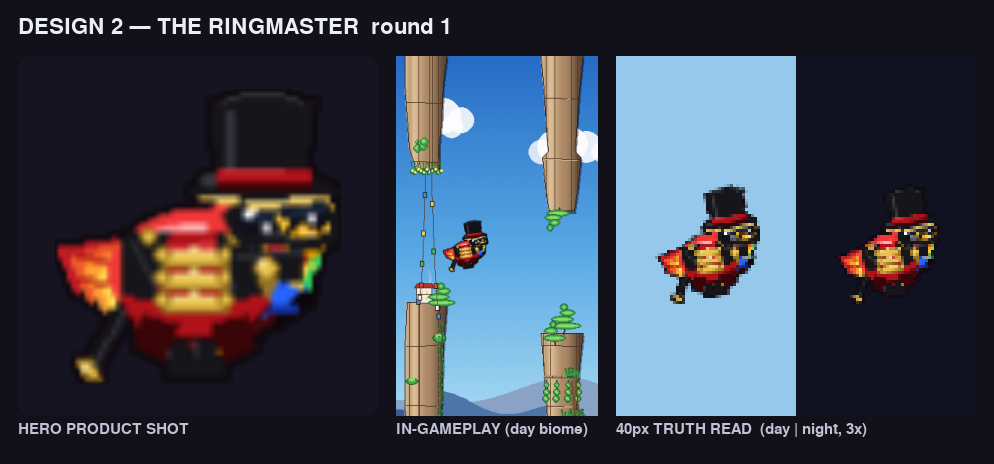
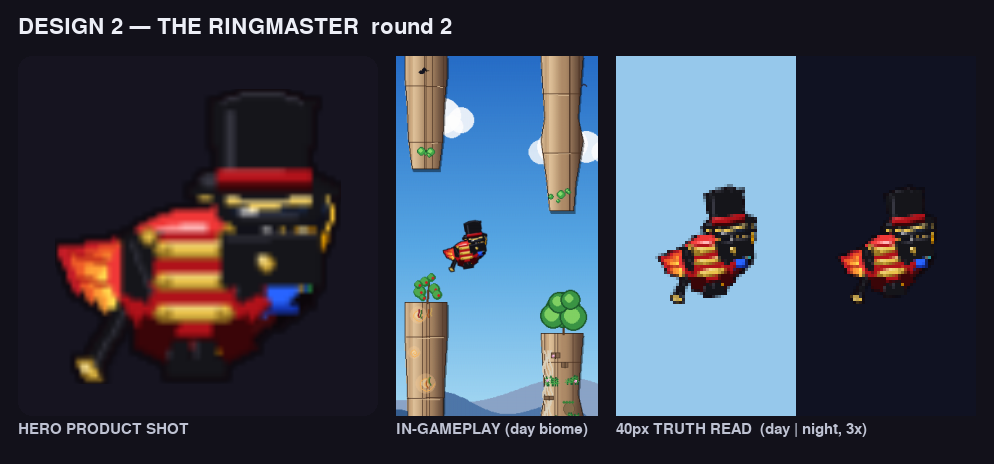
Ringmaster tophat costume R2: separate the gold frog-braid rungs + clean the face
Widen the three gold frog-braid bars to a 7px pitch over a tight 1px shadow
so a clean crimson row survives between each rung at 40px (the R1 bars merged
into one gold block, losing the ladder signature); drop the central button that
was filling the gap that needs to read empty. Raise and widen the black stand
collar to seal the throat gap where the parrot eye/beak/body punched through,
and pull the moustache up onto the cheek as a solid bar with one upward hook
each side so the showman tell survives the downscale.

Claude-Session: https://claude.ai/code/session_01HafGQfRZVDiGkQqpJPr5Cm

diff --git a/tools/tophat_candidates/design_2.py b/tools/tophat_candidates/design_2.py
@@ -87,47 +87,50 @@ def _paint(surf, _a):
                             (BCX - 7, BCY + 19), (BCX - 13, BCY + 16)])
     _poly(surf, _RM_RED_D, [(BCX + 4, BCY + 11), (BCX + 11, BCY + 9),
                             (BCX + 13, BCY + 16), (BCX + 7, BCY + 19)])
-    # Black cutaway lapels framing a central red placket.
-    _poly(surf, _RM_BLACK, [(BCX - 15, BCY - 9), (BCX - 6, BCY - 9),
-                            (BCX - 9, BCY + 6), (BCX - 16, BCY + 4)])
-    _poly(surf, _RM_BLACK, [(BCX + 14, BCY - 9), (BCX + 5, BCY - 9),
-                            (BCX + 8, BCY + 6), (BCX + 15, BCY + 4)])
-    pygame.draw.line(surf, _RM_BLACK_H, (BCX - 14, BCY - 7), (BCX - 8, BCY + 4), 1)
-    pygame.draw.line(surf, _RM_BLACK_H, (BCX + 13, BCY - 7), (BCX + 7, BCY + 4), 1)
+    # Black cutaway lapels framing a central red placket. Inner edges pulled OUT
+    # ~2px each side (vs R1) so the gold ladder gets a clean crimson margin left
+    # and right and never bleeds into the black.
+    _poly(surf, _RM_BLACK, [(BCX - 15, BCY - 9), (BCX - 8, BCY - 9),
+                            (BCX - 11, BCY + 6), (BCX - 16, BCY + 4)])
+    _poly(surf, _RM_BLACK, [(BCX + 14, BCY - 9), (BCX + 7, BCY - 9),
+                            (BCX + 10, BCY + 6), (BCX + 15, BCY + 4)])
+    pygame.draw.line(surf, _RM_BLACK_H, (BCX - 14, BCY - 7), (BCX - 10, BCY + 4), 1)
+    pygame.draw.line(surf, _RM_BLACK_H, (BCX + 13, BCY - 7), (BCX + 9, BCY + 4), 1)
 
     # ── GOLD EPAULETTE dots at the shoulders (top of the ladder).
-    for ex in (BCX - 10, BCX + 9):
+    for ex in (BCX - 10, BCX + 7):
         pygame.draw.circle(surf, _RM_GOLD_D, (ex, BCY - 8), 2)
         pygame.draw.circle(surf, _RM_GOLD, (ex, BCY - 8), 1)
 
-    # ── THREE PAIRS of horizontal GOLD FROG-BRAID bars stacked vertically down
-    #    the chest — the red-torso-ladder SIGNATURE. Each bar is drawn
-    #    fill→shadow→highlight with a full empty crimson row between bars so the
-    #    THREE stay distinct (never merging into one gold blob) at 40px; a dot
-    #    button sits centred on each bar.
+    # ── THREE horizontal GOLD FROG-BRAID bars stacked down the chest — the
+    #    red-torso-ladder SIGNATURE, and the whole point of the concept. Pitch is
+    #    WIDE (centres 7px apart) so a clean ~6px row of PURE crimson survives
+    #    between bars at 40px; each bar is a CRISP 2px gold body over a single 1px
+    #    dark shadow — no fat under-shadow that would flood the crimson gap, and
+    #    NO central button filling the row that has to read empty. The empty
+    #    crimson gap is the read, so it is protected harder than the gold itself.
     bar_w = 7
-    for i, by in enumerate((BCY - 4, BCY + 1, BCY + 6)):
+    for by in (BCY - 5, BCY + 2, BCY + 9):
         x0, x1 = BCX - bar_w, BCX + bar_w
-        pygame.draw.line(surf, _RM_GOLD_D, (x0, by + 1), (x1, by + 1), 3)  # under-shadow
-        pygame.draw.line(surf, _RM_GOLD, (x0, by), (x1, by), 2)            # braid body
-        pygame.draw.line(surf, _RM_GOLD_H, (x0 + 1, by - 1), (x1 - 1, by - 1), 1)  # top glint
+        pygame.draw.line(surf, _RM_GOLD_D, (x0, by + 1), (x1, by + 1), 1)  # tight shadow
+        pygame.draw.line(surf, _RM_GOLD, (x0, by - 1), (x1, by - 1), 2)    # braid body
+        pygame.draw.line(surf, _RM_GOLD_H, (x0 + 1, by - 2), (x1 - 1, by - 2), 1)  # glint
         # Curled frog-knot ends so the bar reads as braid, not a plain stripe.
         for sx in (x0, x1):
             pygame.draw.circle(surf, _RM_GOLD_D, (sx, by), 2)
-            pygame.draw.circle(surf, _RM_GOLD, (sx, by), 1)
-        # Central dot button.
-        pygame.draw.circle(surf, _RM_GOLD_H, (BCX, by - 1), 1)
+            pygame.draw.circle(surf, _RM_GOLD, (sx, by - 1), 1)
 
-    # ── TALL BLACK STAND COLLAR with a small gold-knot cravat at the throat,
-    #    bridging the coat to the head.
-    _poly(surf, _RM_BLACK, [(HX - 7, HY + 6), (HX + 9, HY + 5),
-                            (HX + 8, HY + 12), (HX - 6, HY + 13)])
-    pygame.draw.line(surf, _RM_BLACK_H, (HX - 6, HY + 7), (HX + 8, HY + 6), 1)
-    pygame.draw.circle(surf, _RM_GOLD_D, (HX + 1, HY + 10), 3)   # gold cravat knot
-    pygame.draw.circle(surf, _RM_GOLD, (HX + 1, HY + 10), 2)
-    pygame.draw.circle(surf, _RM_GOLD_H, (HX, HY + 9), 1)
-    _poly(surf, _RM_GOLD_D, [(HX - 1, HY + 12), (HX + 3, HY + 12),
-                            (HX + 1, HY + 16)])                  # cravat tail
+    # ── TALL BLACK STAND COLLAR — raised UP and widened ACROSS the throat so it
+    #    covers the gap where the parrot's eye/beak and the blue/green body used
+    #    to punch through (the R1 confetti collision). The throat now reads as one
+    #    clean dark mass; a SINGLE gold cravat knot dot sits on the black (no tail
+    #    clutter) for one bright fleck against the dark.
+    _poly(surf, _RM_BLACK, [(HX - 9, HY + 2), (HX + 13, HY + 1),
+                            (HX + 12, HY + 13), (HX - 8, HY + 14)])
+    pygame.draw.line(surf, _RM_BLACK_H, (HX - 8, HY + 3), (HX + 11, HY + 2), 1)
+    pygame.draw.circle(surf, _RM_GOLD_D, (HX + 1, HY + 9), 2)    # single gold knot
+    pygame.draw.circle(surf, _RM_GOLD, (HX + 1, HY + 9), 1)
+    pygame.draw.circle(surf, _RM_GOLD_H, (HX, HY + 8), 1)
 
     # ── TOP HAT — the IDENTITY ANCHOR. A tall near-black topper rising above the
     #    crown with a CRIMSON satin band and a thin gold pinstripe on the brim
@@ -153,20 +156,17 @@ def _paint(surf, _a):
     pygame.draw.lines(surf, _RM_GOLD_H, False,
                       [(HX - 11, cy + 4), (HX, cy + 5), (HX + 11, cy + 4)], 1)
 
-    # ── SHARP UPWARD-CURLED HANDLEBAR MOUSTACHE — the showman tell. Black, the
-    #    curls sweeping up off the cheeks so they pop against the red collar; no
-    #    monocle, so the face stays clean for the curls to be the read.
-    mx, my = HX + 1, HY + 3
-    pygame.draw.line(surf, _RM_BLACK, (mx - 1, my), (mx + 9, my + 1), 3)  # bar
-    # Left curl sweeping up.
+    # ── HANDLEBAR MOUSTACHE — the showman tell, now a SOLID 2-3px black bar
+    #    across the cheek line with ONE clear upward hook at each end so it reads
+    #    as a moustache (not noise) even at 40px. Sits just above the raised
+    #    collar so it pops as its own dark shape against the face.
+    my = HY - 1
+    pygame.draw.line(surf, _RM_BLACK, (HX - 6, my), (HX + 8, my), 3)        # solid bar
     pygame.draw.lines(surf, _RM_BLACK, False,
-                      [(mx - 1, my), (mx - 7, my - 1), (mx - 9, my - 5),
-                       (mx - 6, my - 7)], 3)
-    # Right curl sweeping up.
+                      [(HX - 6, my), (HX - 9, my - 1), (HX - 10, my - 6)], 3)  # left hook up
     pygame.draw.lines(surf, _RM_BLACK, False,
-                      [(mx + 9, my + 1), (mx + 14, my), (mx + 16, my - 4),
-                       (mx + 13, my - 6)], 3)
-    pygame.draw.line(surf, _RM_BLACK_H, (mx - 1, my - 1), (mx + 8, my), 1)  # sheen
+                      [(HX + 8, my), (HX + 11, my - 1), (HX + 12, my - 6)], 3)  # right hook up
+    pygame.draw.line(surf, _RM_BLACK_H, (HX - 5, my - 1), (HX + 7, my - 1), 1)  # sheen
 
 
 build = store_skins._make_skin(_paint)

diff --git a/tools/tophat_candidates/render_design_2.py b/tools/tophat_candidates/render_design_2.py
@@ -13,7 +13,7 @@ from tools import ninja_render
 from tools.tophat_candidates.design_2 import build
 
 OUT = "docs/store_redesign/costume/tophat/design_2/round_1.png"
-TITLE = "DESIGN 2 — THE RINGMASTER  round 1"
+TITLE = "DESIGN 2 — THE RINGMASTER  round 2"
 
 
 def _label(surf, text, x, y, size=18, color=(236, 238, 246)):
